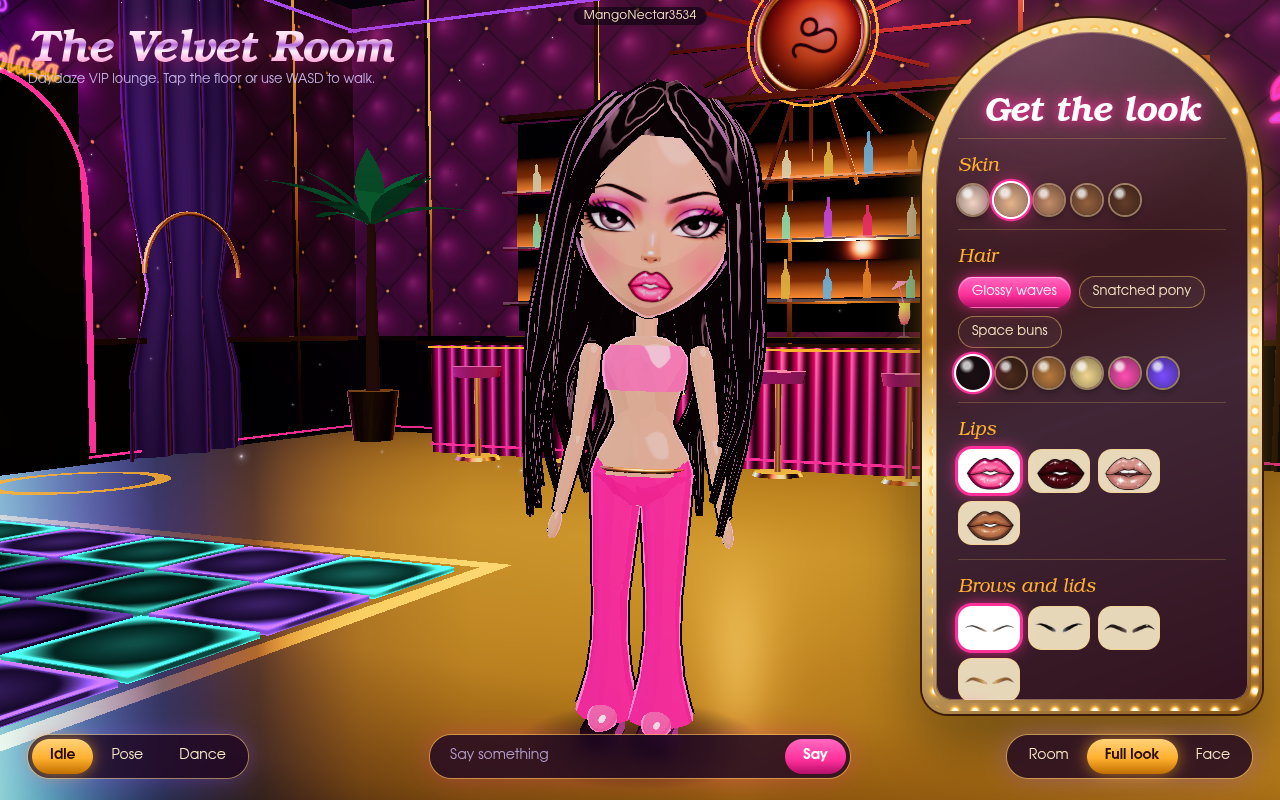
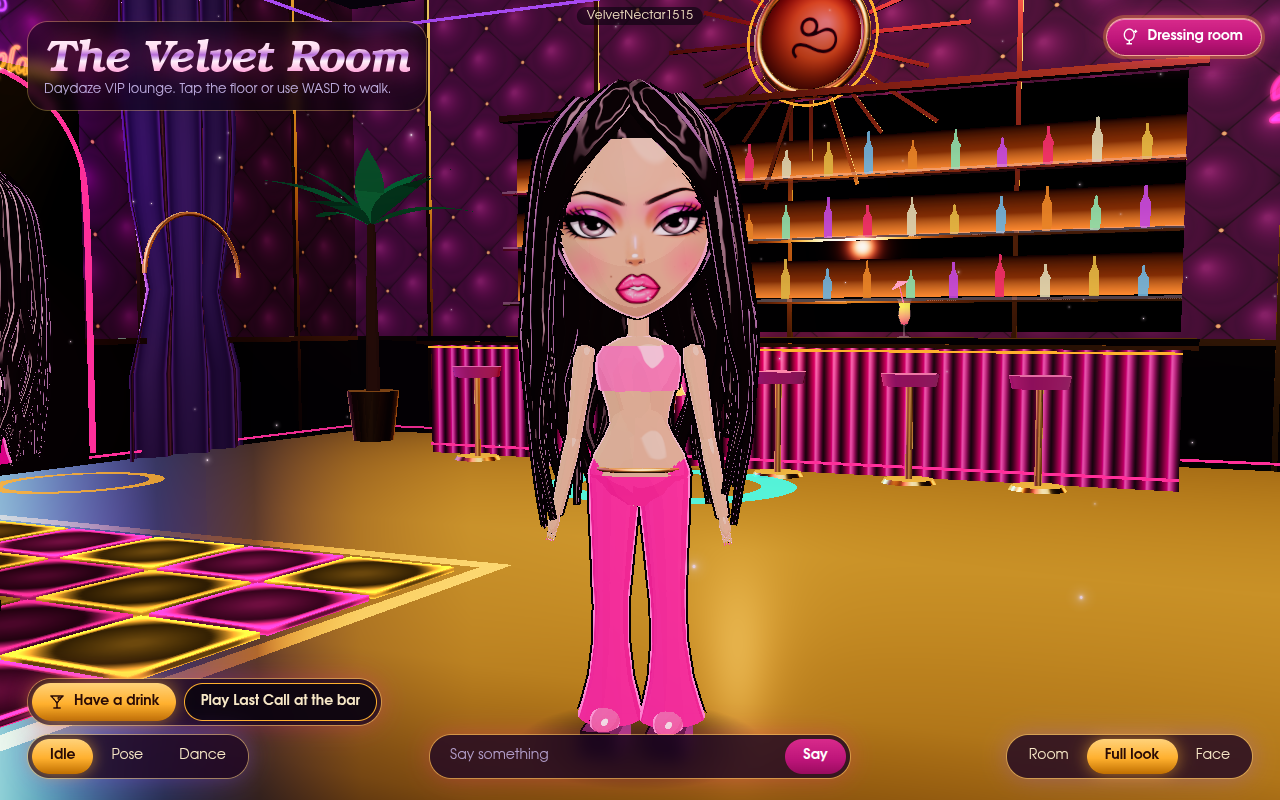
feat(doll): use the 3D doll everywhere, toon doll while models load
Also fixes HMR when the dev server runs inside a worktree: the
**/.worktrees/** watch glob matched every file there.

diff --git a/src/client/avatar/Doll.tsx b/src/client/avatar/Doll.tsx
@@ -1,5 +1,5 @@
 import { useFrame, useThree, type ThreeElements } from "@react-three/fiber";
-import { useEffect, useMemo, useRef, useState } from "react";
+import { Suspense, useEffect, useMemo, useRef, useState } from "react";
 import * as THREE from "three";
 import { couplePoseAt, type CoupleRole } from "../../game/dance/couple.ts";
 import {
@@ -30,6 +30,7 @@ import {
   shadowTex,
 } from "./dollParts.ts";
 import { buildFaceTextures } from "./faceTexture.ts";
+import { HumanDoll } from "./human/HumanDoll.tsx";
 import { pose, type Rig } from "./pose.ts";
 import { hairTime, makeHair, makeToon } from "./toon.ts";
 
@@ -180,7 +181,8 @@ type DollProps = {
   seed?: number;
 } & Omit<ThreeElements["group"], "children">;
 
-export function Doll({
+/** The original toon doll, shown while the 3D doll's models load. */
+export function ToonDoll({
   look,
   swim = null,
   mood,
@@ -457,5 +459,15 @@ function Shoe({
         rotation-x={Math.PI / 2}
       />
     </group>
+  );
+}
+
+/** A doll: the 3D Blender-built doll, with the toon doll standing in while
+ * its models load. */
+export function Doll(props: DollProps) {
+  return (
+    <Suspense fallback={<ToonDoll {...props} />}>
+      <HumanDoll {...props} />
+    </Suspense>
   );
 }

diff --git a/vite.config.ts b/vite.config.ts
@@ -1,5 +1,11 @@
 import react from "@vitejs/plugin-react";
+import { fileURLToPath } from "node:url";
 import { defineConfig } from "vite";
+
+// This checkout's own worktrees folder. A glob like "**/.worktrees/**" would
+// also match every file when the server runs inside a worktree, and HMR there
+// would silently stop.
+const worktrees = fileURLToPath(new URL("./.worktrees/", import.meta.url));
 
 // `npm run dev -- --port <n>` overrides the default port.
 export default defineConfig({
@@ -8,7 +14,11 @@ export default defineConfig({
     port: 5173,
     // Agents edit files in .worktrees/; watching them reloads the open game.
     watch: {
-      ignored: ["**/.worktrees/**", "**/test-results/**", "**/docs/**"],
+      ignored: [
+        (path: string) => path.startsWith(worktrees),
+        "**/test-results/**",
+        "**/docs/**",
+      ],
     },
   },
   // Only scan the real entry points for dependencies, not worktree copies.

diff --git a/src/client/avatar/lineup.tsx b/src/client/avatar/lineup.tsx
@@ -6,7 +6,7 @@ import { useRef } from "react";
 import { createRoot } from "react-dom/client";
 import * as THREE from "three";
 import { DEFAULT_LOOK, type Look } from "../../game/look.ts";
-import { Doll } from "./Doll.tsx";
+import { ToonDoll as Doll } from "./Doll.tsx";
 import { HumanDoll } from "./human/HumanDoll.tsx";
 import { Environment, Lightformer } from "@react-three/drei";
 import { Suspense } from "react";
